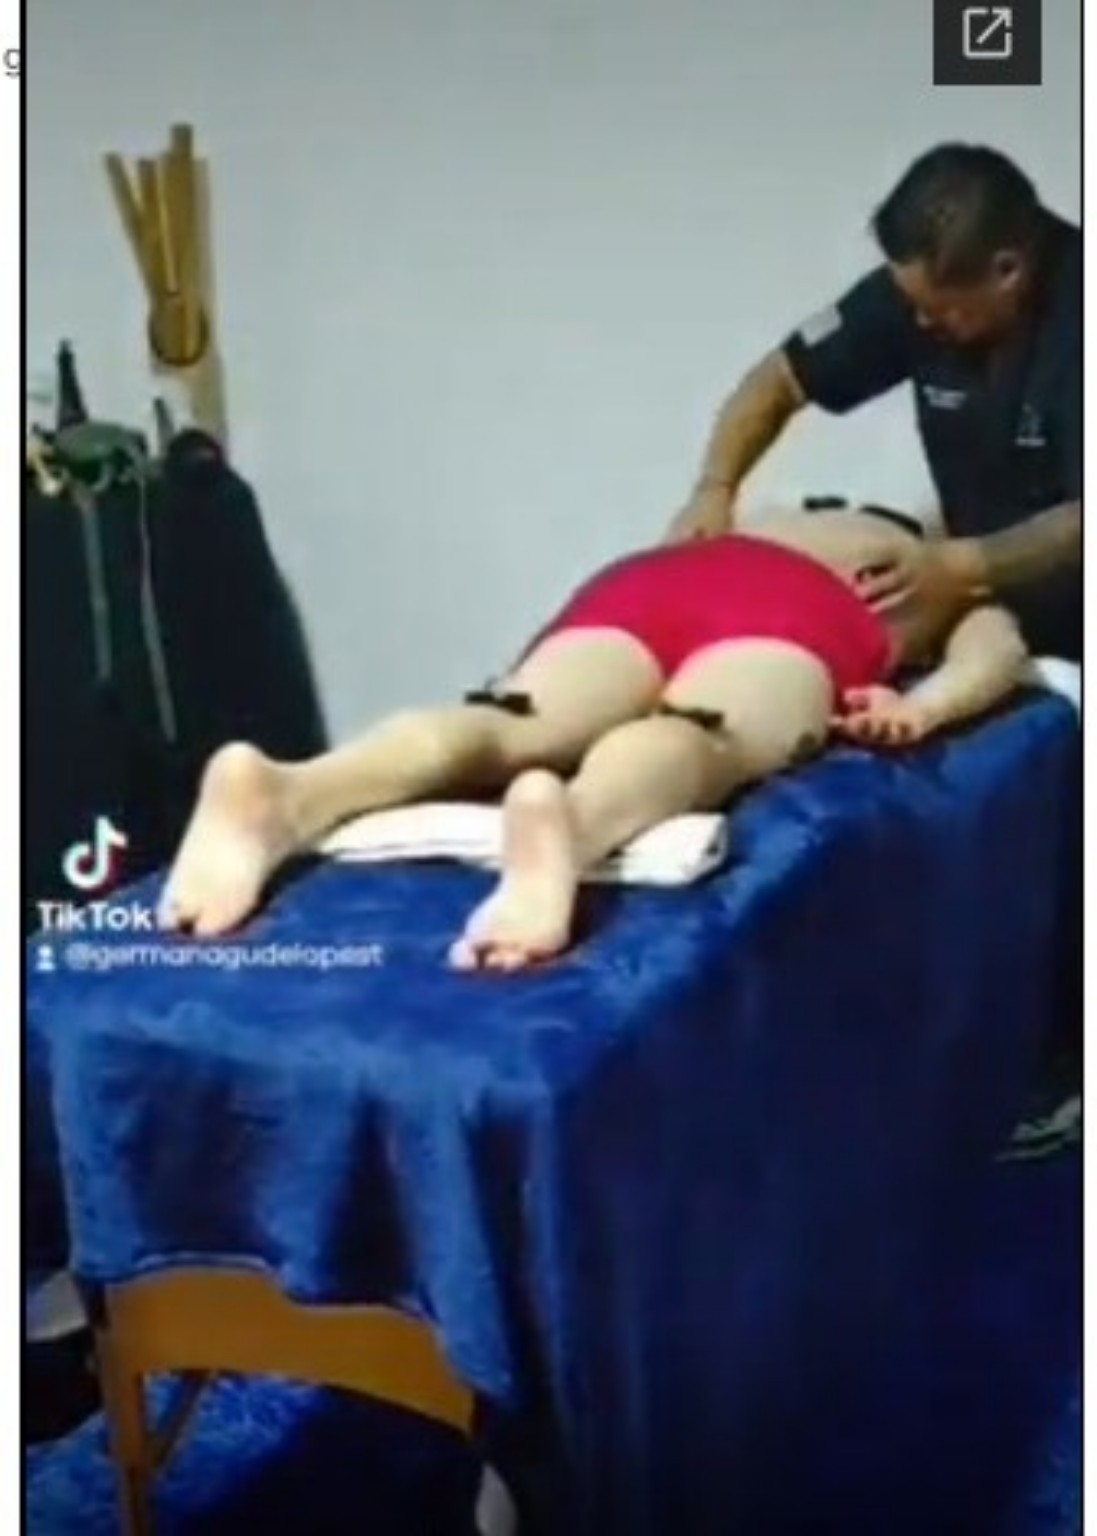
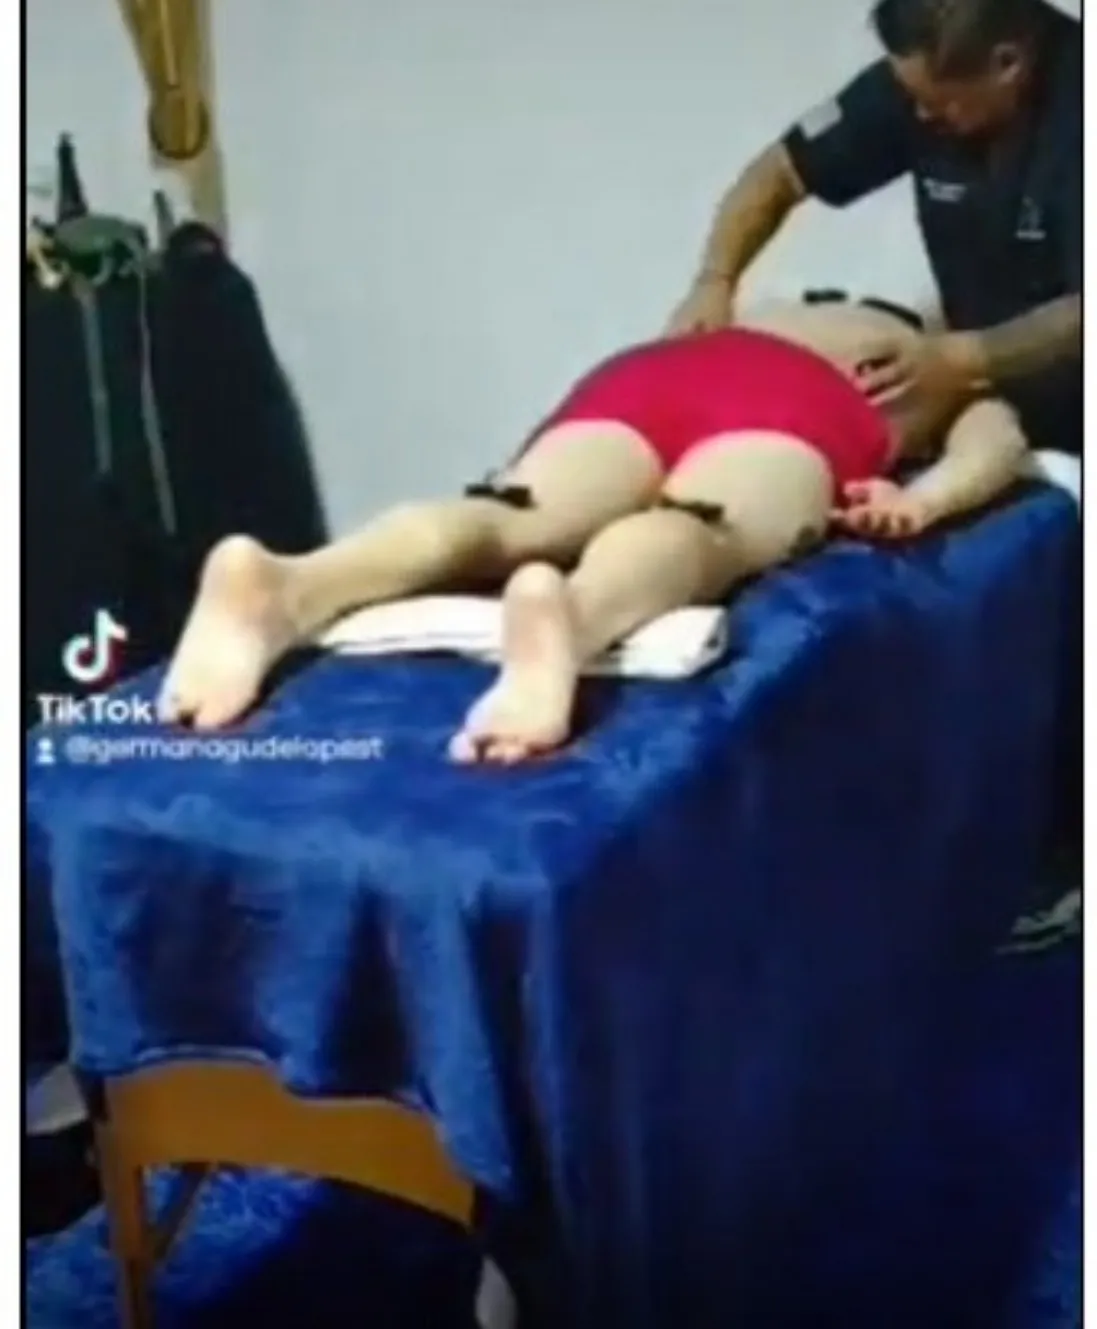
Add files via upload

diff --git a/index.html b/index.html
@@ -170,112 +170,116 @@
     <div class="vid-car" id="vid-car">
       <div class="vid-trk" id="vid-trk">
 
-        
-<div class="vid-slide" data-drive="1yzxGaGtAT606Rx2SJkDbQSi-2qDpPOSb" data-title="Presentación del consultorio" onclick="openVid(this)">
-<div class="vid-thumb-wrap">
-<img src="assets/thumbnails/poster1.webp" alt="Video 1" class="vid-poster" loading="lazy">
-<div class="vid-grad"></div><div class="vid-play-btn"></div>
-<div class="vid-counter">1 / 11</div>
-<div class="vid-overlay-label">Video 1 · Presentación del consultorio</div>
-</div><div class="vid-slide-sub">▶ Conoce Quiromasajes GAP</div></div>
-<div class="vid-slide" data-drive="13n3FSzI1bn5xutM1MYkxr-dyaz0lJP8c" data-title="Presentación principal del servicio" onclick="openVid(this)">
+        <!-- VIDEO 1 – NUEVO: Presentación del consultorio -->
+        <div class="vid-slide" data-drive="1yzxGaGtAT606Rx2SJkDbQSi-2qDpPOSb" data-title="Presentación del consultorio" onclick="openVid(this)">
           <div class="vid-thumb-wrap">
-            <img src="assets/thumbnails/poster1.webp" alt="Presentación principal del servicio" class="vid-poster" loading="lazy">
+            <img src="assets/thumbnails/poster1.webp" alt="Presentación del consultorio" class="vid-poster" loading="lazy">
             <div class="vid-grad"></div>
             <div class="vid-play-btn"><svg viewBox="0 0 24 24" width="32" height="32" fill="white"><path d="M8 5v14l11-7z"/></svg></div>
             <div class="vid-counter">1 / 10</div>
-            <div class="vid-overlay-label">Video 1 · Presentación principal del servicio</div>
+            <div class="vid-overlay-label">Video 1 · Presentación del consultorio</div>
+          </div>
+          <div class="vid-slide-sub">▶ Conoce Quiromasajes GAP</div>
+        </div>
+
+        <!-- VIDEO 2 -->
+        <div class="vid-slide" data-drive="13n3FSzI1bn5xutM1MYkxr-dyaz0lJP8c" data-title="Presentación principal del servicio" onclick="openVid(this)">
+          <div class="vid-thumb-wrap">
+            <img src="assets/thumbnails/poster2.webp" alt="Presentación principal del servicio" class="vid-poster" loading="lazy">
+            <div class="vid-grad"></div>
+            <div class="vid-play-btn"><svg viewBox="0 0 24 24" width="32" height="32" fill="white"><path d="M8 5v14l11-7z"/></svg></div>
+            <div class="vid-counter">2 / 10</div>
+            <div class="vid-overlay-label">Video 2 · Presentación principal del servicio</div>
           </div>
           <div class="vid-slide-sub">▶ Conoce el servicio de Quiromasajes GAP</div>
         </div>
 
+        <!-- VIDEO 3 -->
         <div class="vid-slide" data-drive="1Cmg9L0Sfuk7kuspadMfQov1OlaocqrJL" data-title="Quiropraxia" onclick="openVid(this)">
           <div class="vid-thumb-wrap">
-            <img src="assets/thumbnails/poster2.webp" alt="Quiropraxia" class="vid-poster" loading="lazy">
+            <img src="assets/thumbnails/poster3.webp" alt="Quiropraxia" class="vid-poster" loading="lazy">
             <div class="vid-grad"></div>
             <div class="vid-play-btn"><svg viewBox="0 0 24 24" width="32" height="32" fill="white"><path d="M8 5v14l11-7z"/></svg></div>
-            <div class="vid-counter">2 / 10</div>
-            <div class="vid-overlay-label">Video 2 · Quiropraxia</div>
+            <div class="vid-counter">3 / 10</div>
+            <div class="vid-overlay-label">Video 3 · Quiropraxia</div>
           </div>
           <div class="vid-slide-sub">▶ Manipulación quiropráctica para liberar el dolor</div>
         </div>
 
+        <!-- VIDEO 4 -->
         <div class="vid-slide" data-drive="1DvY6elTIdAIsjTxQeX84T-ri8mnCk4Ut" data-title="Osteopatía" onclick="openVid(this)">
           <div class="vid-thumb-wrap">
-            <img src="assets/thumbnails/poster3.webp" alt="Osteopatía" class="vid-poster" loading="lazy">
+            <img src="assets/thumbnails/poster4.webp" alt="Osteopatía" class="vid-poster" loading="lazy">
             <div class="vid-grad"></div>
             <div class="vid-play-btn"><svg viewBox="0 0 24 24" width="32" height="32" fill="white"><path d="M8 5v14l11-7z"/></svg></div>
-            <div class="vid-counter">3 / 10</div>
-            <div class="vid-overlay-label">Video 3 · Osteopatía</div>
+            <div class="vid-counter">4 / 10</div>
+            <div class="vid-overlay-label">Video 4 · Osteopatía</div>
           </div>
           <div class="vid-slide-sub">▶ Terapia manual integral del sistema musculoesquelético</div>
         </div>
 
+        <!-- VIDEO 5 -->
         <div class="vid-slide" data-drive="19cFLWjNPtL-jwEYXK1K4R6X6GUmqP6-n" data-title="Masaje terapéutico" onclick="openVid(this)">
           <div class="vid-thumb-wrap">
-            <img src="assets/thumbnails/poster4.webp" alt="Masaje terapéutico" class="vid-poster" loading="lazy">
+            <img src="assets/thumbnails/poster5.webp" alt="Masaje terapéutico" class="vid-poster" loading="lazy">
             <div class="vid-grad"></div>
             <div class="vid-play-btn"><svg viewBox="0 0 24 24" width="32" height="32" fill="white"><path d="M8 5v14l11-7z"/></svg></div>
-            <div class="vid-counter">4 / 10</div>
-            <div class="vid-overlay-label">Video 4 · Masaje terapéutico</div>
+            <div class="vid-counter">5 / 10</div>
+            <div class="vid-overlay-label">Video 5 · Masaje terapéutico</div>
           </div>
           <div class="vid-slide-sub">▶ Técnicas manuales para aliviar tensión muscular</div>
         </div>
 
+        <!-- VIDEO 6 -->
         <div class="vid-slide" data-drive="1Pr-cKHWDCdTaHoHaFfrFSsy6BKraYtfN" data-title="Recuperación muscular" onclick="openVid(this)">
           <div class="vid-thumb-wrap">
-            <img src="assets/thumbnails/poster5.webp" alt="Recuperación muscular" class="vid-poster" loading="lazy">
+            <img src="assets/thumbnails/poster6.webp" alt="Recuperación muscular" class="vid-poster" loading="lazy">
             <div class="vid-grad"></div>
             <div class="vid-play-btn"><svg viewBox="0 0 24 24" width="32" height="32" fill="white"><path d="M8 5v14l11-7z"/></svg></div>
-            <div class="vid-counter">5 / 10</div>
-            <div class="vid-overlay-label">Video 5 · Recuperación muscular</div>
+            <div class="vid-counter">6 / 10</div>
+            <div class="vid-overlay-label">Video 6 · Recuperación muscular</div>
           </div>
           <div class="vid-slide-sub">▶ Resultados visibles en movilidad y bienestar</div>
         </div>
 
+        <!-- VIDEO 7 -->
         <div class="vid-slide" data-drive="1sZQhFcAnWcHF0jVCoCXuQdAtfTP2p88z" data-title="Atención a domicilio" onclick="openVid(this)">
           <div class="vid-thumb-wrap">
-            <img src="assets/thumbnails/poster6.webp" alt="Atención a domicilio" class="vid-poster" loading="lazy">
+            <img src="assets/thumbnails/poster7.webp" alt="Atención a domicilio" class="vid-poster" loading="lazy">
             <div class="vid-grad"></div>
             <div class="vid-play-btn"><svg viewBox="0 0 24 24" width="32" height="32" fill="white"><path d="M8 5v14l11-7z"/></svg></div>
-            <div class="vid-counter">6 / 10</div>
-            <div class="vid-overlay-label">Video 6 · Atención a domicilio</div>
+            <div class="vid-counter">7 / 10</div>
+            <div class="vid-overlay-label">Video 7 · Atención a domicilio</div>
           </div>
           <div class="vid-slide-sub">▶ Llevamos la terapia hasta tu hogar</div>
         </div>
 
-        <div class="vid-slide vid-extra" data-drive="1FwCbp5QXSaPXSVNMOmkIio86hbcadMWl" data-title="Experiencia del profesional" onclick="openVid(this)">
+        <!-- VIDEO 8 -->
+        <div class="vid-slide" data-drive="1FwCbp5QXSaPXSVNMOmkIio86hbcadMWl" data-title="Experiencia del profesional" onclick="openVid(this)">
           <div class="vid-thumb-wrap">
-            <img src="assets/thumbnails/poster7.webp" alt="Experiencia del profesional" class="vid-poster" loading="lazy">
-            <div class="vid-grad"></div>
-            <div class="vid-play-btn"><svg viewBox="0 0 24 24" width="32" height="32" fill="white"><path d="M8 5v14l11-7z"/></svg></div>
-            <div class="vid-counter">7 / 10</div>
-            <div class="vid-overlay-label">Video 7 · Experiencia del profesional</div>
-          </div>
-          <div class="vid-slide-sub">▶ Germán Agudelo, terapeuta certificado</div>
-        </div><div class="vid-slide vid-extra" data-drive="1AKJP8P1UDRgp_rdXjmgCNlfrf4yZlTRO" data-title="Resultados o demostración" onclick="openVid(this)">
-          <div class="vid-thumb-wrap">
-            <img src="assets/thumbnails/poster8.webp" alt="Resultados o demostración" class="vid-poster" loading="lazy">
+            <img src="assets/thumbnails/poster8.webp" alt="Experiencia del profesional" class="vid-poster" loading="lazy">
             <div class="vid-grad"></div>
             <div class="vid-play-btn"><svg viewBox="0 0 24 24" width="32" height="32" fill="white"><path d="M8 5v14l11-7z"/></svg></div>
             <div class="vid-counter">8 / 10</div>
-            <div class="vid-overlay-label">Video 8 · Resultados o demostración</div>
+            <div class="vid-overlay-label">Video 8 · Experiencia del profesional</div>
+          </div>
+          <div class="vid-slide-sub">▶ Germán Agudelo, terapeuta certificado</div>
+        </div>
+
+        <!-- VIDEO 9 -->
+        <div class="vid-slide" data-drive="1AKJP8P1UDRgp_rdXjmgCNlfrf4yZlTRO" data-title="Resultados o demostración" onclick="openVid(this)">
+          <div class="vid-thumb-wrap">
+            <img src="assets/thumbnails/poster9.webp" alt="Resultados o demostración" class="vid-poster" loading="lazy">
+            <div class="vid-grad"></div>
+            <div class="vid-play-btn"><svg viewBox="0 0 24 24" width="32" height="32" fill="white"><path d="M8 5v14l11-7z"/></svg></div>
+            <div class="vid-counter">9 / 10</div>
+            <div class="vid-overlay-label">Video 9 · Resultados o demostración</div>
           </div>
           <div class="vid-slide-sub">▶ Casos reales y mejoras evidentes</div>
         </div>
 
-        <div class="vid-slide vid-extra" data-drive="1yzxGaGtAT606Rx2SJkDbQSi-2qDpPOSb" data-title="Video adicional" onclick="openVid(this)">
-          <div class="vid-thumb-wrap">
-            <img src="assets/thumbnails/poster9.webp" alt="Video adicional" class="vid-poster" loading="lazy">
-            <div class="vid-grad"></div>
-            <div class="vid-play-btn"><svg viewBox="0 0 24 24" width="32" height="32" fill="white"><path d="M8 5v14l11-7z"/></svg></div>
-            <div class="vid-counter">9 / 10</div>
-            <div class="vid-overlay-label">Video 9 · Video adicional</div>
-          </div>
-          <div class="vid-slide-sub">▶ Más contenido de Quiromasajes GAP</div>
-        </div>
-
-        <div class="vid-slide vid-extra" data-drive="1R7w3aNdQecJK9Ry2GF4R87WSMwLbdIib" data-title="Video adicional 2" onclick="openVid(this)">
+        <!-- VIDEO 10 -->
+        <div class="vid-slide" data-drive="1R7w3aNdQecJK9Ry2GF4R87WSMwLbdIib" data-title="Video adicional 2" onclick="openVid(this)">
           <div class="vid-thumb-wrap">
             <img src="assets/thumbnails/poster10.webp" alt="Video adicional 2" class="vid-poster" loading="lazy">
             <div class="vid-grad"></div>
@@ -285,6 +289,7 @@
           </div>
           <div class="vid-slide-sub">▶ Más contenido de Quiromasajes GAP</div>
         </div>
+
       </div>
     </div>
     <button class="vid-arr vid-arr-r" onclick="moveVid(1)" aria-label="Video siguiente">›</button>
@@ -297,15 +302,13 @@
     <button class="vdot" onclick="goVid(3)" aria-label="Video 4"></button>
     <button class="vdot" onclick="goVid(4)" aria-label="Video 5"></button>
     <button class="vdot" onclick="goVid(5)" aria-label="Video 6"></button>
-    <button class="vdot vid-extra-dot" onclick="goVid(6)" aria-label="Video 7"></button>
-    <button class="vdot vid-extra-dot" onclick="goVid(7)" aria-label="Video 8"></button>
-    <button class="vdot vid-extra-dot" onclick="goVid(8)" aria-label="Video 9"></button>
-    <button class="vdot vid-extra-dot" onclick="goVid(9)" aria-label="Video 10"></button>
+    <button class="vdot" onclick="goVid(6)" aria-label="Video 7"></button>
+    <button class="vdot" onclick="goVid(7)" aria-label="Video 8"></button>
+    <button class="vdot" onclick="goVid(8)" aria-label="Video 9"></button>
+    <button class="vdot" onclick="goVid(9)" aria-label="Video 10"></button>
   </div>
 
-  <button id="vid-more-btn" class="vid-more-btn fu" onclick="showMoreVideos()">Ver más videos</button>
-
-  <!-- Modal de reproducción (Google Drive embed, lazy) -->
+  <!-- Modal de reproducción (Google Drive embed) -->
   <div id="vid-modal" class="modal" onclick="if(event.target===this)closeVid()">
     <div class="modal-box vid-modal-box">
       <button class="modal-close" onclick="closeVid()">← Volver a la galería</button>

diff --git a/style.css b/style.css
@@ -232,9 +232,10 @@ footer{background:var(--teal-d);padding:24px 20px;text-align:center}
 .prob-item{background:#fff;border:1px solid var(--border);border-radius:var(--r);padding:9px 12px;font-size:12px;font-weight:600;color:var(--ink);display:flex;align-items:center;gap:6px;box-shadow:0 2px 10px rgba(0,0,0,.04)}
 
 /* ── VIDEO MODAL PLAYER ── */
-.vid-modal-box{max-width:300px;padding:10px}
-.vid-frame-wrap{position:relative;width:100%;aspect-ratio:9/16;border-radius:var(--r);overflow:hidden;background:#000}
-.vid-player{position:absolute;inset:0;width:100%;height:100%;border:0;display:block}
+.vid-modal-box{max-width:380px;height:75vh;max-height:700px;padding:10px}
+.vid-modal-box .vid-frame-wrap{position:relative;width:100%;aspect-ratio:9/16;border-radius:var(--r);overflow:hidden;background:#000}
+.vid-modal-box .vid-player{position:absolute;inset:0;width:100%;height:100%;border:0;display:block}
+.vid-modal-box .modal-title{font-family:'Playfair Display',Georgia,serif;font-size:15px;font-weight:600;text-align:center;color:var(--ink);padding:12px 0 4px}
 
 /* ── CASOS DE ÉXITO ── */
 .casos-grid{display:flex;flex-direction:column;gap:14px}
@@ -304,13 +305,56 @@ footer{background:var(--teal-d);padding:24px 20px;text-align:center}
 .cta-final-badges{display:flex;flex-wrap:wrap;justify-content:center;gap:8px;margin-top:14px;position:relative;z-index:1}
 .cta-badge{background:rgba(255,255,255,.12);border:1px solid rgba(255,255,255,.22);color:#fff;font-size:11px;font-weight:600;padding:6px 12px;border-radius:20px;backdrop-filter:blur(4px);white-space:nowrap}
 
-/* ── GALERÍA: mostrar solo 6 inicialmente ── */
-.vid-extra,.vid-extra-dot{display:none}
-.vid-more-btn{display:block;margin:14px auto 0;padding:10px 22px;background:transparent;border:1.5px solid var(--turq);color:var(--teal-d);font-size:12.5px;font-weight:700;border-radius:50px;cursor:pointer;transition:background .15s,color .15s}
-.vid-more-btn:active{background:var(--turq);color:#fff}
-.vid-more-btn.hidden{display:none}
+/* ── ELIMINADOS: ver más videos y extras ── */
+.vid-extra, .vid-extra-dot, .vid-more-btn {
+  display: none !important;
+}
 
-@media (max-width:480px){
-  .vid-thumb-wrap{height:200px!important;width:112px!important;}
-  .vid-modal-box{max-width:300px!important;}
+/* ── Ajustes de modal de video ── */
+#vid-modal .modal-box {
+  max-width: 380px;
+  width: 100%;
+  padding: 10px;
+  border-radius: var(--r-lg);
+  background: #fff;
+}
+#vid-modal .vid-frame-wrap {
+  position: relative;
+  width: 100%;
+  aspect-ratio: 9/16;
+  border-radius: var(--r);
+  overflow: hidden;
+  background: #000;
+}
+#vid-modal .vid-player {
+  position: absolute;
+  inset: 0;
+  width: 100%;
+  height: 100%;
+  border: 0;
+  display: block;
+}
+#vid-modal .modal-title {
+  font-family: 'Playfair Display', Georgia, serif;
+  font-size: 15px;
+  font-weight: 600;
+  text-align: center;
+  color: var(--ink);
+  padding: 12px 0 4px;
+}
+/* Botón de cierre dentro del modal de video */
+#vid-modal .modal-close {
+  position: static;
+  display: inline-block;
+  background: none;
+  border: none;
+  font-size: 14px;
+  font-weight: 600;
+  color: var(--teal);
+  padding: 8px 12px;
+  margin-bottom: 8px;
+  cursor: pointer;
+}
+#vid-modal .modal-close:hover {
+  text-decoration: underline;
 }

diff --git a/script.js b/script.js
@@ -65,7 +65,8 @@ if(ts&&tdots.length){
 }
 
 // ── Video carousel ─────────────────────────────────────
-var vidCur = 0, vidTotal = 6, vidTimer, vidPaused = false;
+var vidCur = 0, vidTotal = 10, vidTimer, vidPaused = false;
+
 function goVid(n) {
   vidCur = ((n % vidTotal) + vidTotal) % vidTotal;
   var trk = document.getElementById('vid-trk');
@@ -73,12 +74,16 @@ function goVid(n) {
   document.querySelectorAll('.vdot').forEach(function(d, i) { d.classList.toggle('vdot-on', i === vidCur); });
   resetVidTimer();
 }
+
 function moveVid(dir) { goVid(vidCur + dir); }
+
 function resetVidTimer() {
   clearInterval(vidTimer);
   if (!vidPaused) vidTimer = setInterval(function() { goVid(vidCur + 1); }, 6000);
 }
+
 resetVidTimer();
+
 // Swipe + pause on hover
 (function() {
   var el = document.getElementById('vid-car');
@@ -235,12 +240,4 @@ function toggleFaq(btn) {
   });
   item.classList.toggle('open', !wasOpen);
   btn.querySelector('.faq-ic').textContent = !wasOpen ? '×' : '+';
-}
-
-// ── Galería: revelar los 4 videos restantes ──
-function showMoreVideos() {
-  document.querySelectorAll('.vid-extra').forEach(function(el) { el.classList.remove('vid-extra'); });
-  document.querySelectorAll('.vid-extra-dot').forEach(function(el) { el.classList.remove('vid-extra-dot'); });
-  vidTotal = 10;
-  document.getElementById('vid-more-btn').classList.add('hidden');
 }